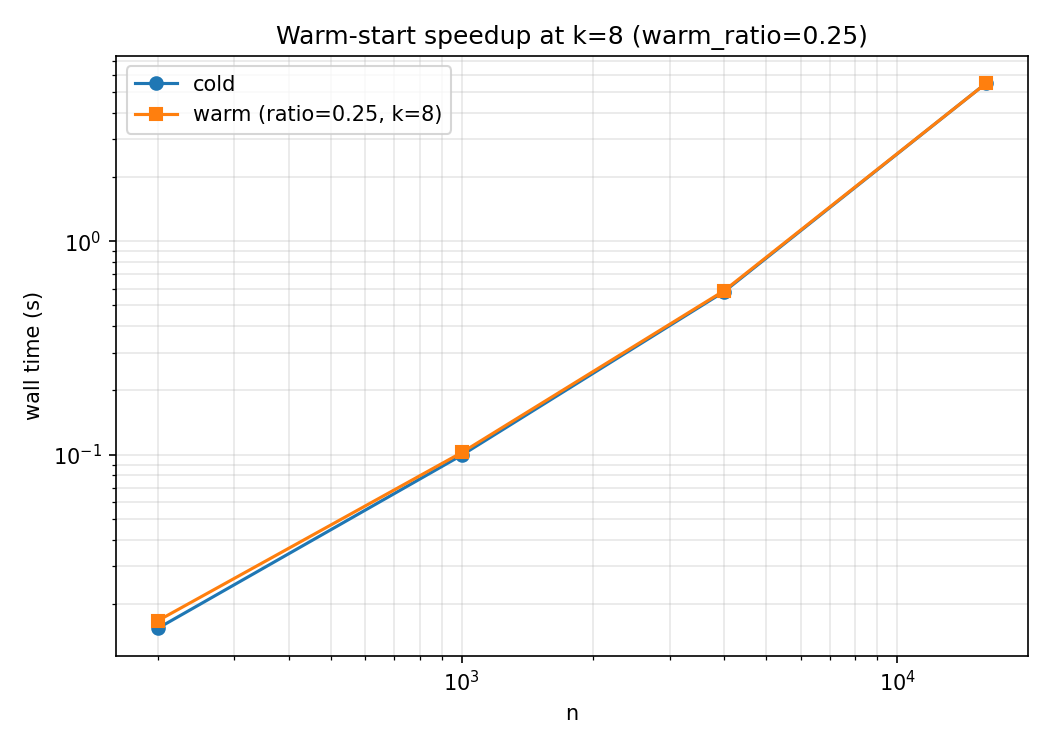
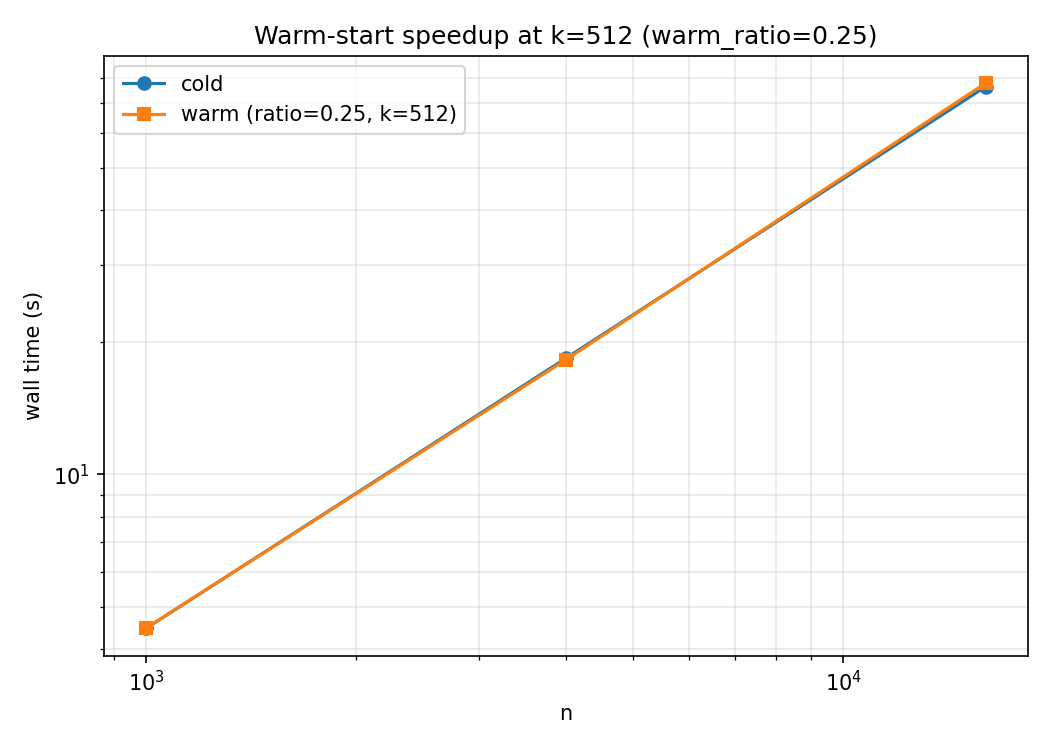
fix(report): warm_speedup tiebreak prefers largest k so warm benefit is visible

diff --git a/tests/test_benchmarks.py b/tests/test_benchmarks.py
@@ -192,6 +192,13 @@ def test_fig_warm_speedup_skips_k_with_no_reduction(tmp_path):
         {"scenario": "sparse_warm", "solver": "sparse_ot", "n": 1000, "k": 32,
          "warm_ratio": 0.25, "wall_s": 0.20, "peak_mb": 0.0, "cost": 0.0,
          "marginal_err_a": 0.0, "marginal_err_b": 0.0, "extrapolated": False},
+        # Another valid candidate at same ratio (k_warm=2 for k=8, ratio 0.25)
+        {"scenario": "sparse_cold", "solver": "sparse_ot", "n": 1000, "k": 8,
+         "warm_ratio": None, "wall_s": 0.30, "peak_mb": 0.0, "cost": 0.0,
+         "marginal_err_a": 0.0, "marginal_err_b": 0.0, "extrapolated": False},
+        {"scenario": "sparse_warm", "solver": "sparse_ot", "n": 1000, "k": 8,
+         "warm_ratio": 0.25, "wall_s": 0.25, "peak_mb": 0.0, "cost": 0.0,
+         "marginal_err_a": 0.0, "marginal_err_b": 0.0, "extrapolated": False},
     ]
     result = fig_warm_speedup(cells, tmp_path)
     assert result == (32, 0.25), f"expected (32, 0.25), got {result}"

diff --git a/benchmarks/report.py b/benchmarks/report.py
@@ -237,10 +237,10 @@ def fig_warm_speedup(cells: list, figures_dir: Path):
         _placeholder(out_path, "No (k, warm_ratio) with k_warm < k and matching cold cell")
         return None
 
-    # d) Pick smallest k_warm/k ratio; tiebreak smallest k.
+    # d) Pick smallest k_warm/k ratio; tiebreak largest k.
     k_plot, ratio_plot = min(
         candidates,
-        key=lambda kw: (max(2, int(round(kw[0] * kw[1]))) / kw[0], kw[0]),
+        key=lambda kw: (max(2, int(round(kw[0] * kw[1]))) / kw[0], -kw[0]),
     )
 
     # e) Build cold_pts and warm_pts.
